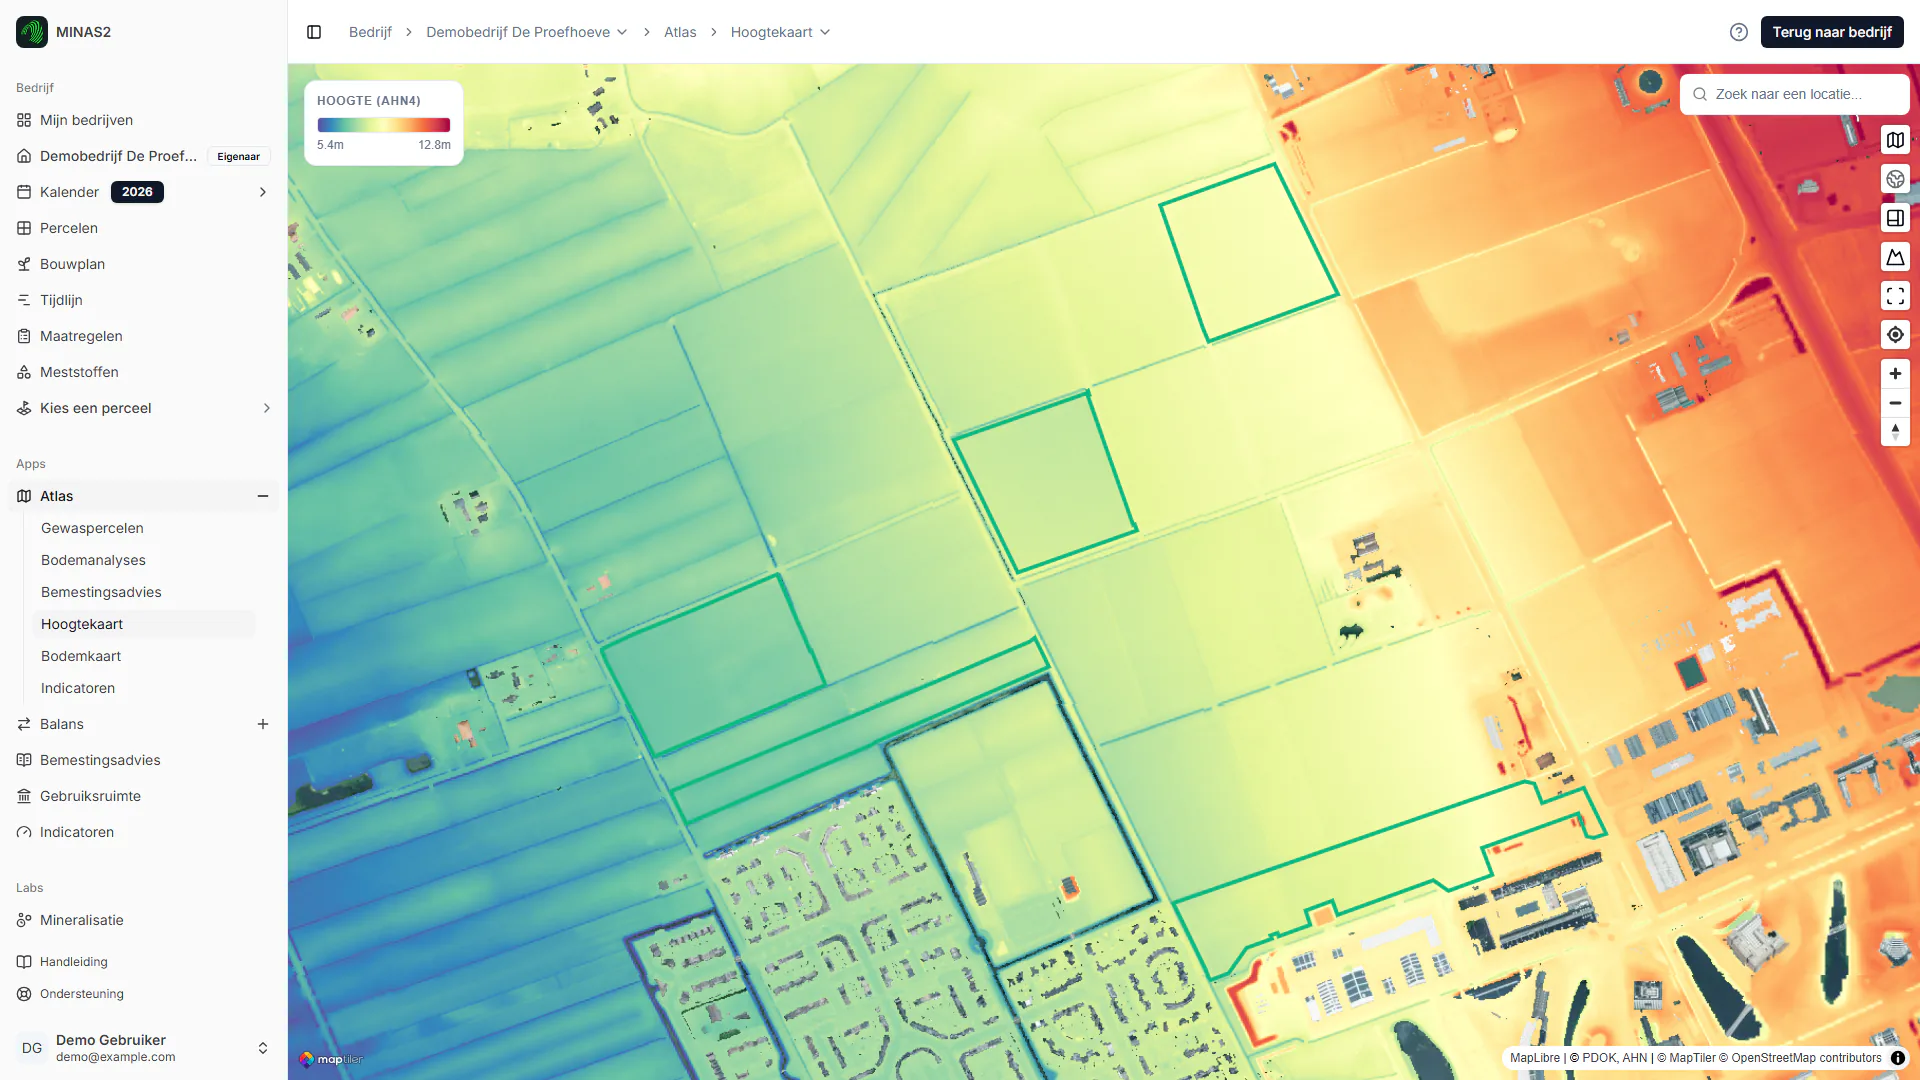
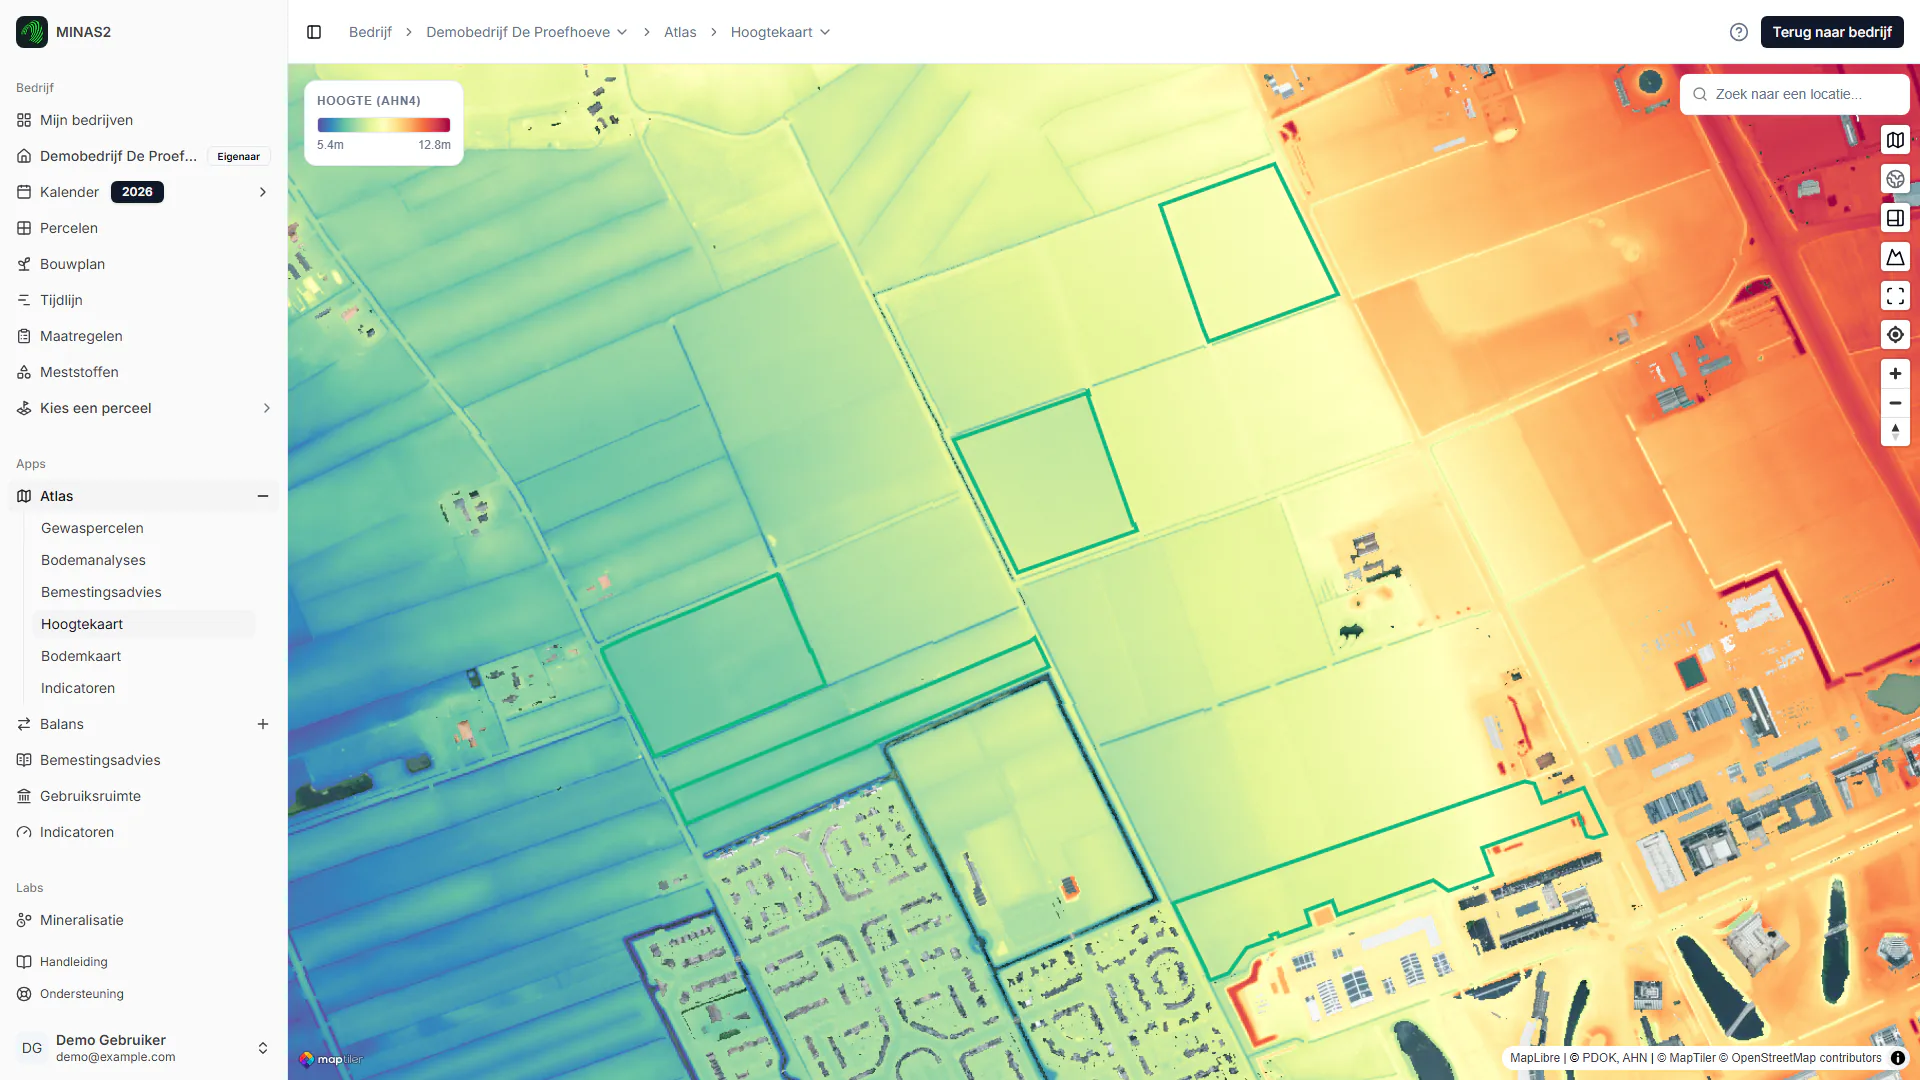
feat(fdm-app): capture the BodemConditieScore in the manual and fix time-dependent screenshots
- Four BodemConditieScore screenshots: the list of assessments, the first
  step of a new assessment, scoring a characteristic and the overview.
- Capture definitions can set a fixed browser clock (`clock`). The timeline
  uses 15 May of the current year, so its "Vandaag" line no longer moves
  every day. The clock applies after the first page has loaded, so the
  browser and the server render agree.
- The time-of-day greeting is always "Goedemiddag": the run rewrites the
  server-rendered HTML, whose clock it cannot freeze.
- The elevation map waits until its legend shows the loaded range.

diff --git a/fdm-app/app/content/manual/screenshots/capture.ts b/fdm-app/app/content/manual/screenshots/capture.ts
@@ -68,10 +68,15 @@ export const captures = {
     ready: { text: "Ander laboratorium" },
   },
   tijdlijn: {
-    route: "/farm/{farm}/{year}/timeline",
-    ready: { text: "Maïsakker" },
-    // The quarterly view shows the whole year.
+    // Starts on the dashboard and opens the timeline from the menu, so the browser draws it with
+    // the fixed clock; otherwise the "Vandaag" line would move every day.
+    route: "/farm/{farm}?calendar={year}",
+    ready: { role: "heading", name: "Demobedrijf De Proefhoeve" },
+    clock: "{year}-05-15T12:00:00+02:00",
     steps: [
+      { click: { role: "link", name: "Tijdlijn" } },
+      { waitFor: { text: "Maïsakker" } },
+      // The quarterly view shows the whole year.
       { click: { text: "Maandelijks", exact: true } },
       { click: { role: "option", name: "Kwartaal" } },
     ],
@@ -157,6 +162,8 @@ export const captures = {
   "atlas-hoogtekaart": {
     route: "/farm/{farm}/{year}/atlas/elevation",
     ready: { selector: ".maplibregl-canvas" },
+    // The legend shows its default range until the elevation data has loaded.
+    steps: [{ waitForHidden: { text: "-5.0m", exact: true } }],
     map: true,
   },
   "balans-organische-stof": {
@@ -198,6 +205,37 @@ export const captures = {
     route: "/farm/{farm}/{year}/field/{field:grasland-huiskavel}/soil",
     ready: { text: "Gemiddelde van 2 zones" },
     map: true,
+  },
+  // BodemConditieScore: the Achterweide has two assessments, without photos.
+  "bcs-metingen": {
+    route: "/farm/{farm}/{year}/field/{field:grasland-achter}/bcs",
+    ready: { text: "Nieuwe meting toevoegen" },
+  },
+  "bcs-meting-starten": {
+    route: "/farm/{farm}/{year}/field/{field:grasland-achter}/bcs/new",
+    ready: { text: "pH en organische stof", exact: true },
+    // The date picker starts at today; a fixed date keeps the image the same between runs.
+    steps: [{ fill: { placeholder: "Kies een datum" }, value: "15-04-{year}" }, { press: "Tab" }],
+  },
+  "bcs-kenmerk-scoren": {
+    route: "/farm/{farm}/{year}/field/{field:grasland-achter}/bcs/new",
+    ready: { text: "pH en organische stof", exact: true },
+    steps: [
+      { click: { role: "button", name: "Volgende" } },
+      { waitFor: { text: "Wat beoordeel je?" } },
+      { click: { selector: 'button:has(span:text-is("Goed"))' } },
+    ],
+  },
+  "bcs-overzicht": {
+    route: "/farm/{farm}/{year}/field/{field:grasland-achter}/bcs",
+    ready: { text: "Nieuwe meting toevoegen" },
+    // The newest assessment is at the top of the list.
+    steps: [
+      { click: { selector: 'a[href*="/bcs/"]:not([href$="/new"])' } },
+      { waitFor: { role: "link", name: "Bewerken" } },
+    ],
+    // The partial scores run below the fold.
+    fullPage: true,
   },
   "atlas-bodemanalyses": {
     route: "/farm/{farm}/{year}/atlas/soil-analysis",

diff --git a/fdm-app/e2e/screenshots/mocks.ts b/fdm-app/e2e/screenshots/mocks.ts
@@ -9,6 +9,7 @@ import type { FeatureCollection, Polygon } from "geojson"
 import { readFileSync } from "node:fs"
 import type { DemoFarmIds, DemoFieldKey } from "../seed/demo-farm"
 import { samplingPoints } from "../seed/sampling"
+import { BASE_URL } from "../support/env"
 
 /** The names of the mocks that capture definitions can use. */
 export type CaptureMock = "soil-reader"
@@ -131,4 +132,30 @@ export async function mockSoilReader(page: Page, ids: DemoFarmIds): Promise<void
       body: `${lines.map((line) => JSON.stringify(line)).join("\n")}\n`,
     }),
   )
+}
+
+/** The greetings of the farm overview, which the server picks by the time of day. */
+const GREETING = /Goede(?:nacht|morgen|middag|navond)/g
+
+/**
+ * Makes every page show the afternoon greeting, as if the server rendered it at 14:00. The server
+ * picks the greeting from its own clock, which the run cannot freeze; without this, a capture in
+ * the morning and one in the afternoon would differ.
+ *
+ * It rewrites the server-rendered HTML, including the loader data the browser hydrates with, so
+ * both renders agree.
+ *
+ * @param page - The page to install the rewrite on.
+ */
+export async function fixGreeting(page: Page): Promise<void> {
+  await page.route(`${BASE_URL}/**`, async (route) => {
+    if (route.request().resourceType() !== "document") return route.fallback()
+    // Redirects go back to the browser, so it ends up at the right URL.
+    const response = await route.fetch({ maxRedirects: 0 })
+    if (!(response.headers()["content-type"] ?? "").includes("text/html")) {
+      return route.fulfill({ response })
+    }
+    const body = (await response.text()).replace(GREETING, "Goedemiddag")
+    return route.fulfill({ response, body })
+  })
 }

diff --git a/fdm-app/e2e/screenshots/capture.spec.ts b/fdm-app/e2e/screenshots/capture.spec.ts
@@ -15,7 +15,7 @@ import { loadManualPagesFromDisk } from "../../app/lib/manual/load-from-disk.ser
 import { collectScreenshotIds, compareScreenshotIds } from "../../app/lib/manual/screenshot-ids"
 import { APP_ROOT, BASE_URL } from "../support/env"
 import { saveScreenshot } from "./images"
-import { DUMMY_PDF, mockSoilReader, SOIL_REPORT_FILES } from "./mocks"
+import { DUMMY_PDF, fixGreeting, mockSoilReader, SOIL_REPORT_FILES } from "./mocks"
 import { DEMO_FARM_FILE, RESULTS_DIR, SCREENSHOTS_DIR, SIGNED_OUT_STATE_FILE } from "./paths"
 
 /** Texts of the app's error pages. A capture that shows one of them fails. */
@@ -106,6 +106,7 @@ async function capture(page: Page, id: string, definition: CaptureDefinition): P
   })
 
   if (definition.viewport) await page.setViewportSize(definition.viewport)
+  await fixGreeting(page)
   if (definition.mock === "soil-reader") await mockSoilReader(page, getDemoFarm())
   await page.clock.setFixedTime(runStart)
 
@@ -119,6 +120,10 @@ async function capture(page: Page, id: string, definition: CaptureDefinition): P
   await page.addStyleTag({ content: STILL_CSS })
 
   await expect(locate(page, definition.ready)).toBeVisible()
+  // Only now, after hydration: a clock that differs from the server's breaks hydration. The steps
+  // then open the page that marks today with a client-side navigation.
+  if (definition.clock)
+    await page.clock.setFixedTime(new Date(resolvePlaceholders(definition.clock)))
   for (const step of definition.steps ?? []) {
     if ("click" in step) await locate(page, step.click).click()
     else if ("hover" in step) await locate(page, step.hover).hover()

diff --git a/fdm-app/app/lib/manual/capture-types.ts b/fdm-app/app/lib/manual/capture-types.ts
@@ -100,6 +100,14 @@ export interface CaptureDefinition {
   /** Capture the page as a visitor who is not signed in, such as the sign-in page. */
   signedOut?: boolean
   /**
+   * A fixed moment for the browser clock, for pages that mark today, such as the timeline. Without
+   * it the clock stops at the start of the run, so such a page would change every day. It takes
+   * effect once the page has loaded (an earlier change would make the browser disagree with the
+   * server's render), so `steps` must open the page that marks today, for example through the menu. An ISO date and time in
+   * which `{year}` becomes the current year, for example `"{year}-05-15T12:00:00+02:00"`.
+   */
+  clock?: string
+  /**
    * Answer a reading service with made-up results, so the screenshot never shows a real file:
    *
    * - `soil-reader`: lab reports for the bulk upload of soil analyses (`fdm-app/e2e/screenshots/mocks.ts`).

diff --git a/fdm-app/app/lib/manual/screenshots.test.ts b/fdm-app/app/lib/manual/screenshots.test.ts
@@ -47,6 +47,14 @@ describe("manual screenshots", () => {
     expect(invalid).toEqual([])
   })
 
+  it("sets the browser clock to a valid moment", () => {
+    const invalid = Object.entries(definitions)
+      .filter(([, d]) => d.clock !== undefined)
+      .filter(([, d]) => Number.isNaN(new Date(d.clock?.replace("{year}", "2026") ?? "").getTime()))
+      .map(([id]) => id)
+    expect(invalid).toEqual([])
+  })
+
   it("only commits images that the manual uses, each listed in the manifest", () => {
     if (!existsSync(screenshotsDir)) return
     const images = readdirSync(screenshotsDir)

diff --git a/fdm-app/app/content/manual/chapters/bodemconditiescore.md b/fdm-app/app/content/manual/chapters/bodemconditiescore.md
@@ -40,6 +40,10 @@ Voor pH en organische stof gebruikt {{appName}} de meest recente [bodemanalyse](
 3. Beoordeel de kenmerken, één per stap. Bij elk kenmerk zie je **Wat beoordeel je?**, de **Werkwijze** en een **Fototip**. Klik onder **Kies de score** op de beschrijving die het best past en ga met **Volgende** verder. Met **Terug** ga je een stap terug.
 4. Controleer de score en klik op **Bevestigen en opslaan**.
 
+![De eerste stap van een nieuwe meting: de datum, de labanalyse voor pH en organische stof en foto's toevoegen](screenshot:bcs-meting-starten)
+
+![Een kenmerk scoren: links wat je beoordeelt en hoe, rechts de scores om uit te kiezen](screenshot:bcs-kenmerk-scoren)
+
 Je hoeft niet alles in te vullen: één kenmerk is genoeg om op te slaan. Houd er wel rekening mee dat een kenmerk dat je overslaat als 0 telt in de score. Bij een foto kun je een notitie of tekening plaatsen, bijvoorbeeld om een verdichte laag aan te wijzen.
 
 ## De negen kenmerken {#kenmerken}
@@ -91,6 +95,10 @@ De totaalscore is nooit lager dan 0. Bij 40 punten of meer zit je op de maximale
 
 In het **Overzicht** van een meting zie je de score, het percentage van de maximale score en de deelscores per onderdeel. Kenmerken die punten kosten, staan daar met een minteken.
 
+![Het overzicht van een meting: de score, het oordeel en de deelscores per onderdeel](screenshot:bcs-overzicht)
+
 ## Bekijken en aanpassen {#bekijken-en-aanpassen}
+
+![De metingen van een perceel, elk met de score en het oordeel](screenshot:bcs-metingen)
 
 Onder **BodemConditieScore** op de perceelpagina staan al je metingen. Open een meting om de score, de deelscores en de foto's met notities te zien. Met **Bewerken** pas je de datum, de scores of de foto's aan en klik je op **Wijzigingen opslaan**. Wil je een score weer leeg maken, klik dan nog een keer op de gekozen score. Met **Verwijderen** haal je een meting weg.

diff --git a/fdm-app/app/content/manual/README.md b/fdm-app/app/content/manual/README.md
@@ -82,10 +82,11 @@ Screenshots are never made by hand. A Playwright run captures them from the curr
      element: { selector: "main" }, // optional: capture one element instead of the viewport
      map: true, // optional: wait until the map has loaded its tiles
      mock: "soil-reader", // optional: made-up lab reports for the upload review (e2e/screenshots/mocks.ts)
+     clock: "{year}-05-15T12:00:00+02:00", // optional: a fixed "today", for pages that mark it (see below)
    },
    ```
 
-   Choose a `ready` element that only appears when the page loaded correctly, so an error or empty state never ends up in the manual. Field keys are in `fdm-app/e2e/seed/demo-farm.ts`; extend the seed (`e2e/seed/index.ts`) when a page needs data that the demo farm lacks.
+   Choose a `ready` element that only appears when the page loaded correctly, so an error or empty state never ends up in the manual. Anything that depends on the moment of the run must be fixed, or the image changes on every run. The browser clock stops at the start of the run; a page that marks today, such as the timeline, needs a `clock` and must be opened through the menu (`steps`), because the fixed clock only applies after the first page has loaded. The time-of-day greeting is always "Goedemiddag". Field keys are in `fdm-app/e2e/seed/demo-farm.ts`; extend the seed (`e2e/seed/index.ts`) when a page needs data that the demo farm lacks.
 
 3. `pnpm --filter @nmi-agro/fdm-app test` checks that every id has a definition and every definition is used. The capture run checks it again before it starts.
 

diff --git a/fdm-app/README.md b/fdm-app/README.md
@@ -74,7 +74,7 @@ To run them locally:
 
 4. Run a project, for example `pnpm --filter @nmi-agro/fdm-app screenshots`. Drop and recreate the database before the next run.
 
-Starting the server can take a few minutes. To try changes quickly, keep the server running in a second terminal (`pnpm exec dotenvx run -f .env.e2e -- sh -c "node ./app/lib/fdm-migrate.server.js && node ./server.js"`, with the environment that `playwright.config.ts` gives the app (`appEnv`)). Playwright reuses it. After the first run, set `E2E_REUSE_SEED=1` to keep the seeded farm, and add `--grep <id>` to capture a single screenshot.
+Starting the server can take a few minutes. To try changes quickly, keep the server running in a second terminal (`pnpm exec dotenvx run -f .env.e2e -- sh -c "node ./app/lib/fdm-migrate.server.js && node ./server.js"`, with the environment that `playwright.config.ts` gives the app (`appEnv`)). Playwright reuses it. After the first run, set `E2E_REUSE_SEED=1` to keep the seeded farm, and add `--grep <id>` to capture a single screenshot. Every run signs in once, and the app allows 5 sign-ins per 15 minutes; after that the setup fails with "Te veel pogingen" until the window has passed.
 
 ## Key Functionalities
 
